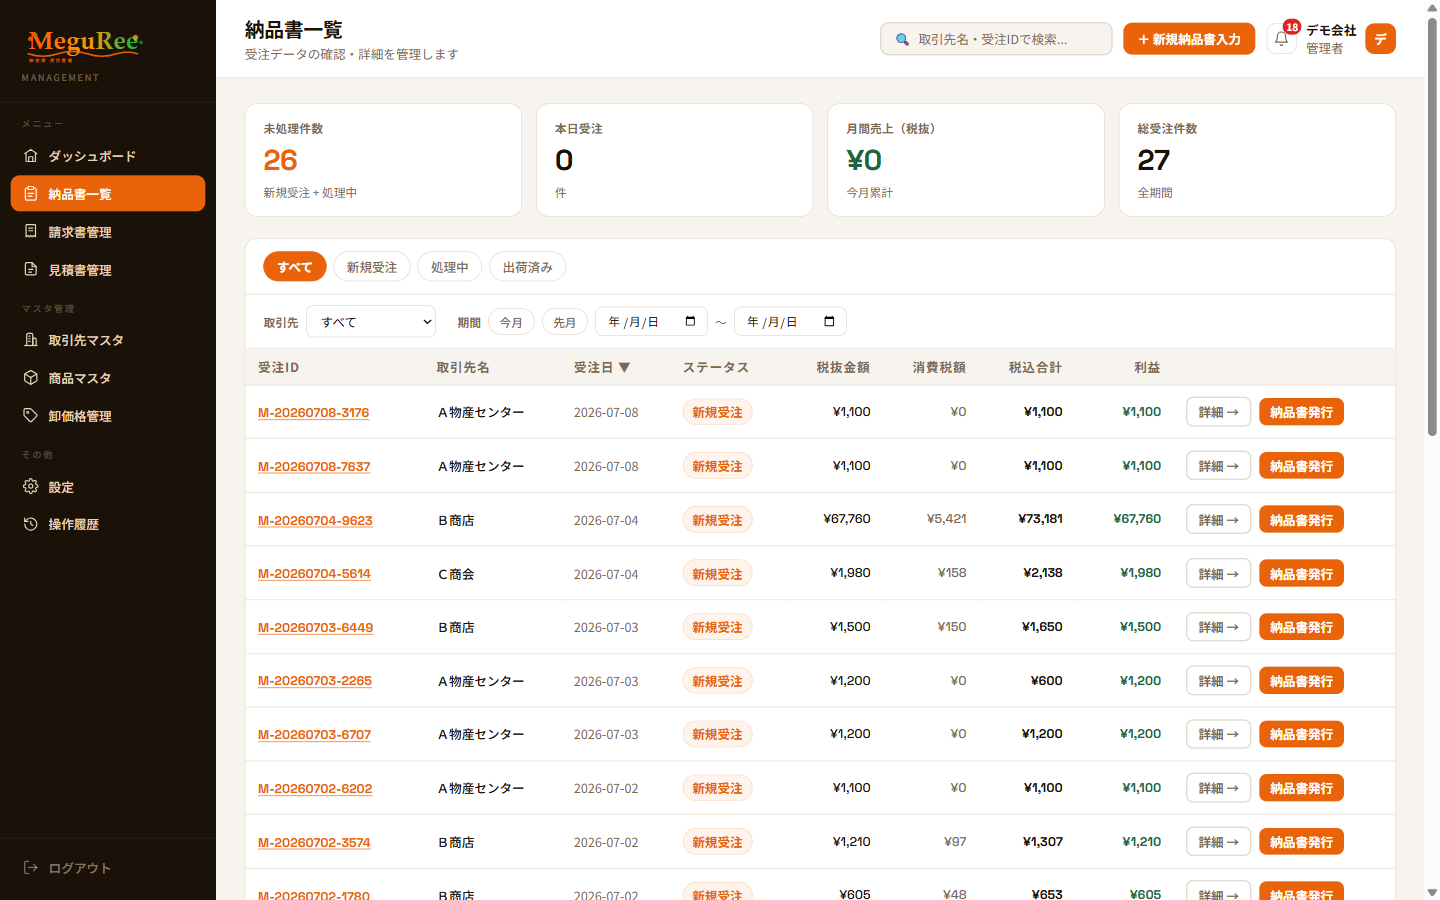
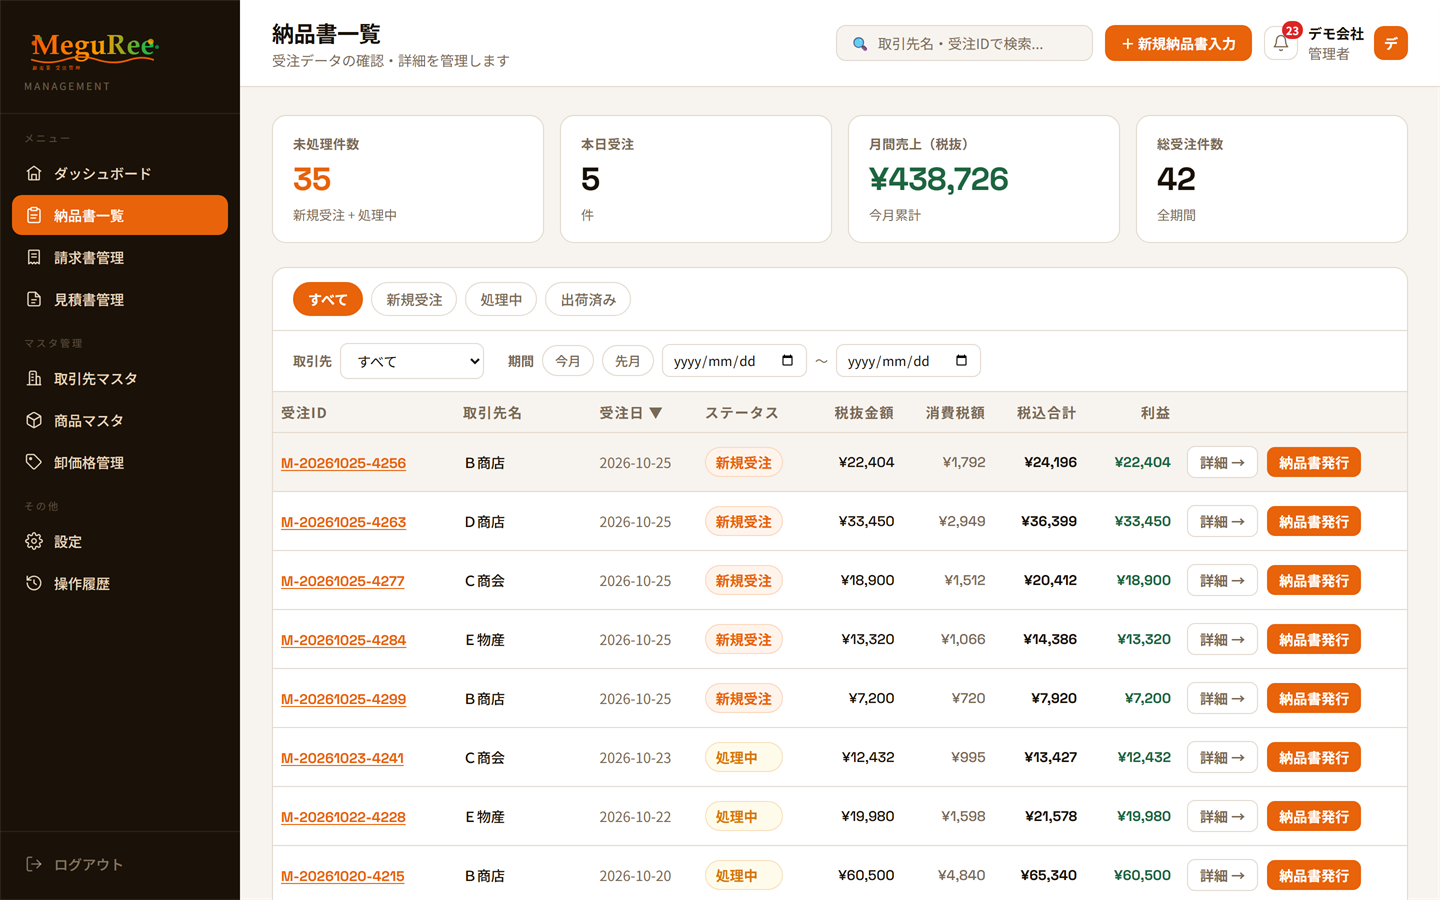
LPの事実と違う記載を修正し、画面写真を差し替え
有料顧客0社の段階で「いちばん選ばれています」と書いていた等、
事実と食い違う記載を3箇所直した。

- 料金バッジ「いちばん選ばれています」→「おすすめ」
- 導入事例を「お客様」から「運営者の父が一人で営む店」と開示。
  FAXで受けた注文を入力して書類を出している実際の使い方に書き換え
- 運営者の文「今もFAXと電話で…手書きの台帳と紙の請求書で」を過去形にし、
  同ページの導入事例との矛盾を解消
- 強みの見出し「選ばれる4つの理由」→「小さな卸に向いている、4つの理由」
- 画面写真2枚を差し替え（受注のある状態・取引先名は伏せ字）

diff --git a/lp.html b/lp.html
@@ -660,7 +660,7 @@ h1 .mg{font-family:'Palatino Linotype',Palatino,Georgia,serif;
 <section class="sec cream" id="strengths">
   <div class="inner">
     <div class="eyebrow">MeguReeの強み</div>
-    <h2>選ばれる4つの理由</h2>
+    <h2>小さな卸に向いている、4つの理由</h2>
     <div class="str-wrap">
       <div>
         <div class="laptop" style="margin-top:0">
@@ -696,11 +696,12 @@ h1 .mg{font-family:'Palatino Linotype',Palatino,Georgia,serif;
 <!-- ============ ④ 導入事例 ============ -->
 <section class="sec white" id="case">
   <div class="inner">
-    <div class="eyebrow">導入事例</div>
-    <h2>実際の卸売の現場で、使われています。</h2>
+    <div class="eyebrow">いま、実際に使われている現場</div>
+    <h2>北海道の小さな卸で、使われています。</h2>
     <div class="case">
-      <div class="case-w">北海道・観光土産／食品卸売業のお客様</div>
-      <p class="case-p">長年、FAX・電話・手書きで受けていた注文を MeguRee へ移行中です。取引先ごとの掛け率の計算が自動になり、受注から納品書・請求書までを一つの画面でまとめて扱えるようになりました。</p>
+      <div class="case-w">観光土産の卸（北海道／運営者の父が一人で営む店）</div>
+      <p class="case-p">FAXと電話で受けた注文を MeguRee に入力し、納品書と請求書を MeguRee から出しています。注文の受け方は今までどおり。変えたのは、受けたあとの書類づくりだけです。<br><br>
+      身内の店です。隠さずに書きます。作っている人間が、使われ方をいちばん近くで見ている——いまの MeguRee は、そういう作り方をしています。</p>
     </div>
   </div>
 </section>
@@ -712,7 +713,7 @@ h1 .mg{font-family:'Palatino Linotype',Palatino,Georgia,serif;
     <h2>まずは、このプランから。</h2>
     <div class="plans">
       <div class="plan-card">
-        <span class="plan-b">いちばん選ばれています</span>
+        <span class="plan-b">おすすめ</span>
         <div class="plan-name">スタンダードプラン</div>
         <div class="plan-p">¥19,800<small>／月（税別）</small></div>
         <div class="plan-s">取引先の登録数 無制限／サポート月30分まで</div>
@@ -769,8 +770,8 @@ h1 .mg{font-family:'Palatino Linotype',Palatino,Georgia,serif;
           <img class="fo-img" src="assets/lp/founder.jpg" alt="MeguRee 運営者 嶋田 渉" width="560" height="560" loading="lazy">
           <div><div class="fo-n">嶋田 渉（しまだ わたる）</div><div class="fo-r">MeguRee 運営者</div></div>
         </div>
-        <p class="fo-p">私の父は、観光の卸を一人でやっています。今もFAXと電話で注文を受け、手書きの台帳と紙の請求書で、毎日その事務に時間を取られています。<br><br>
-        その姿を見て、「本当に時間を使うべきなのは、注文の転記や書類づくりじゃないはずだ」と思ったのが、MeguReeを作ったきっかけでした。<br><br>
+        <p class="fo-p">私の父は、観光の卸を一人でやっています。長いあいだ、FAXと電話で受けた注文を手書きの台帳に書き、紙の請求書を作っていました。<br><br>
+        その姿を見て、「本当に時間を使うべきなのは、注文の転記や書類づくりじゃないはずだ」と思ったのが、MeguReeを作ったきっかけでした。いまはその書類づくりの部分を MeguRee に置き換えて、父の店で使ってもらっています。<br><br>
         小さくやっているからこそ、一件ずつ、顔の見える距離でサポートします。まずは画面を見て、気になることは何でも聞いてください。</p>
         <a href="https://note.com/meguree/n/n1bcbe9d5ce96" class="fo-link" target="_blank" rel="noopener">作り手の想いを note で読む →</a>
       </div>
